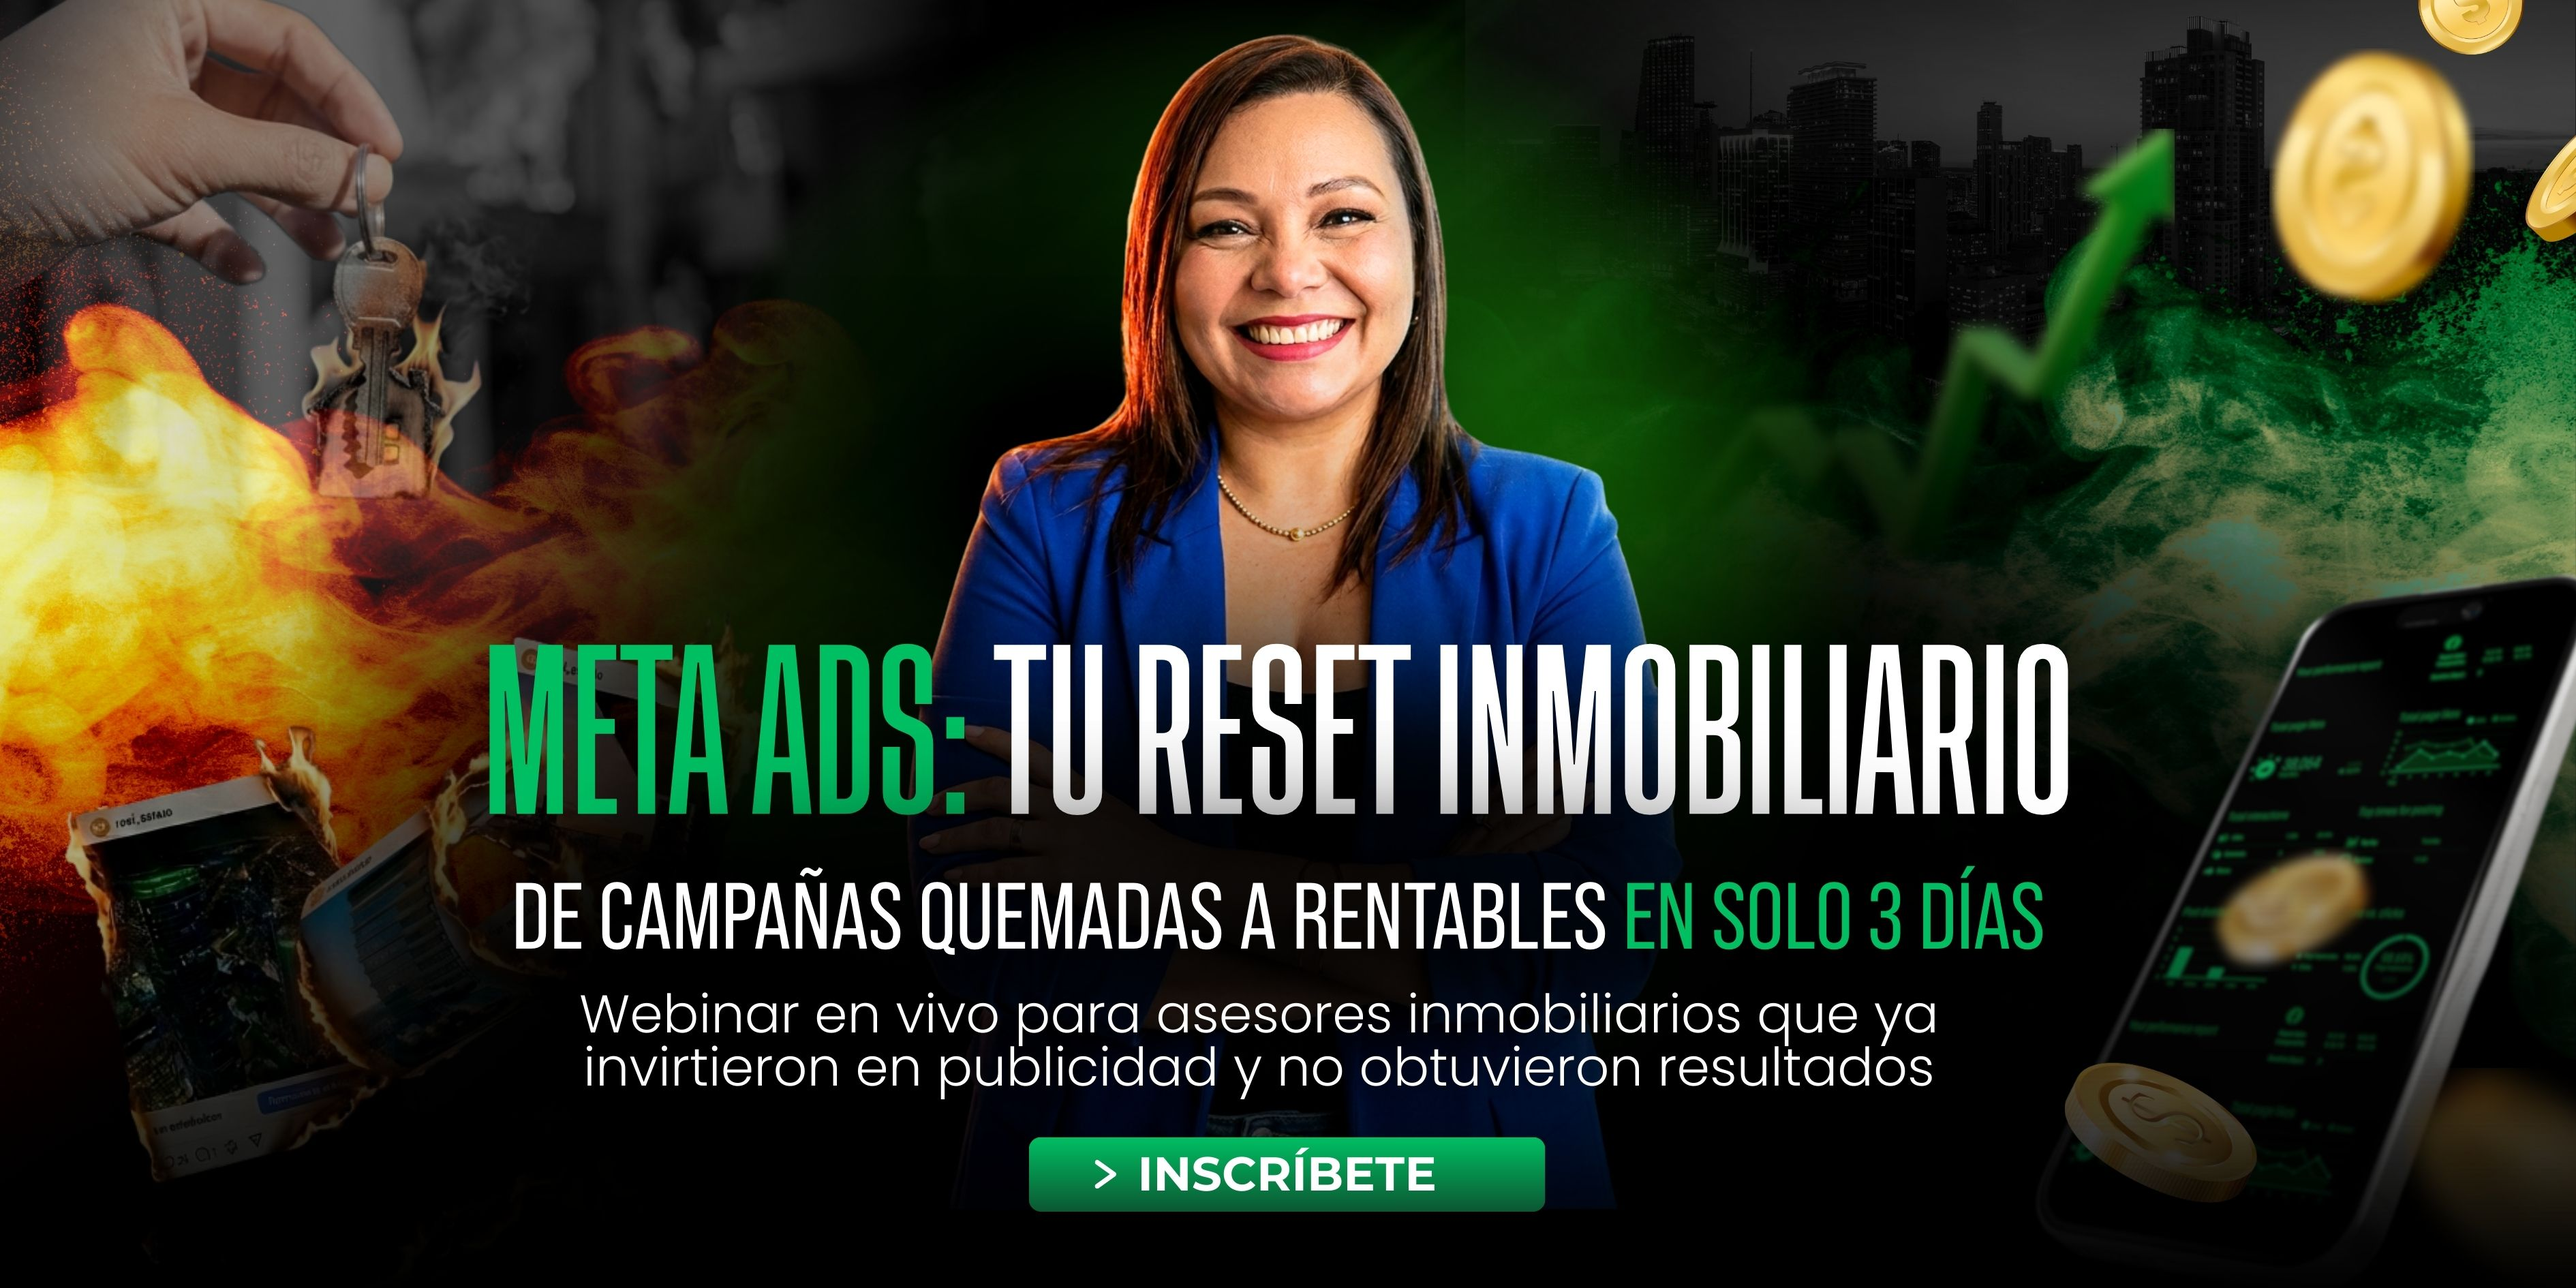
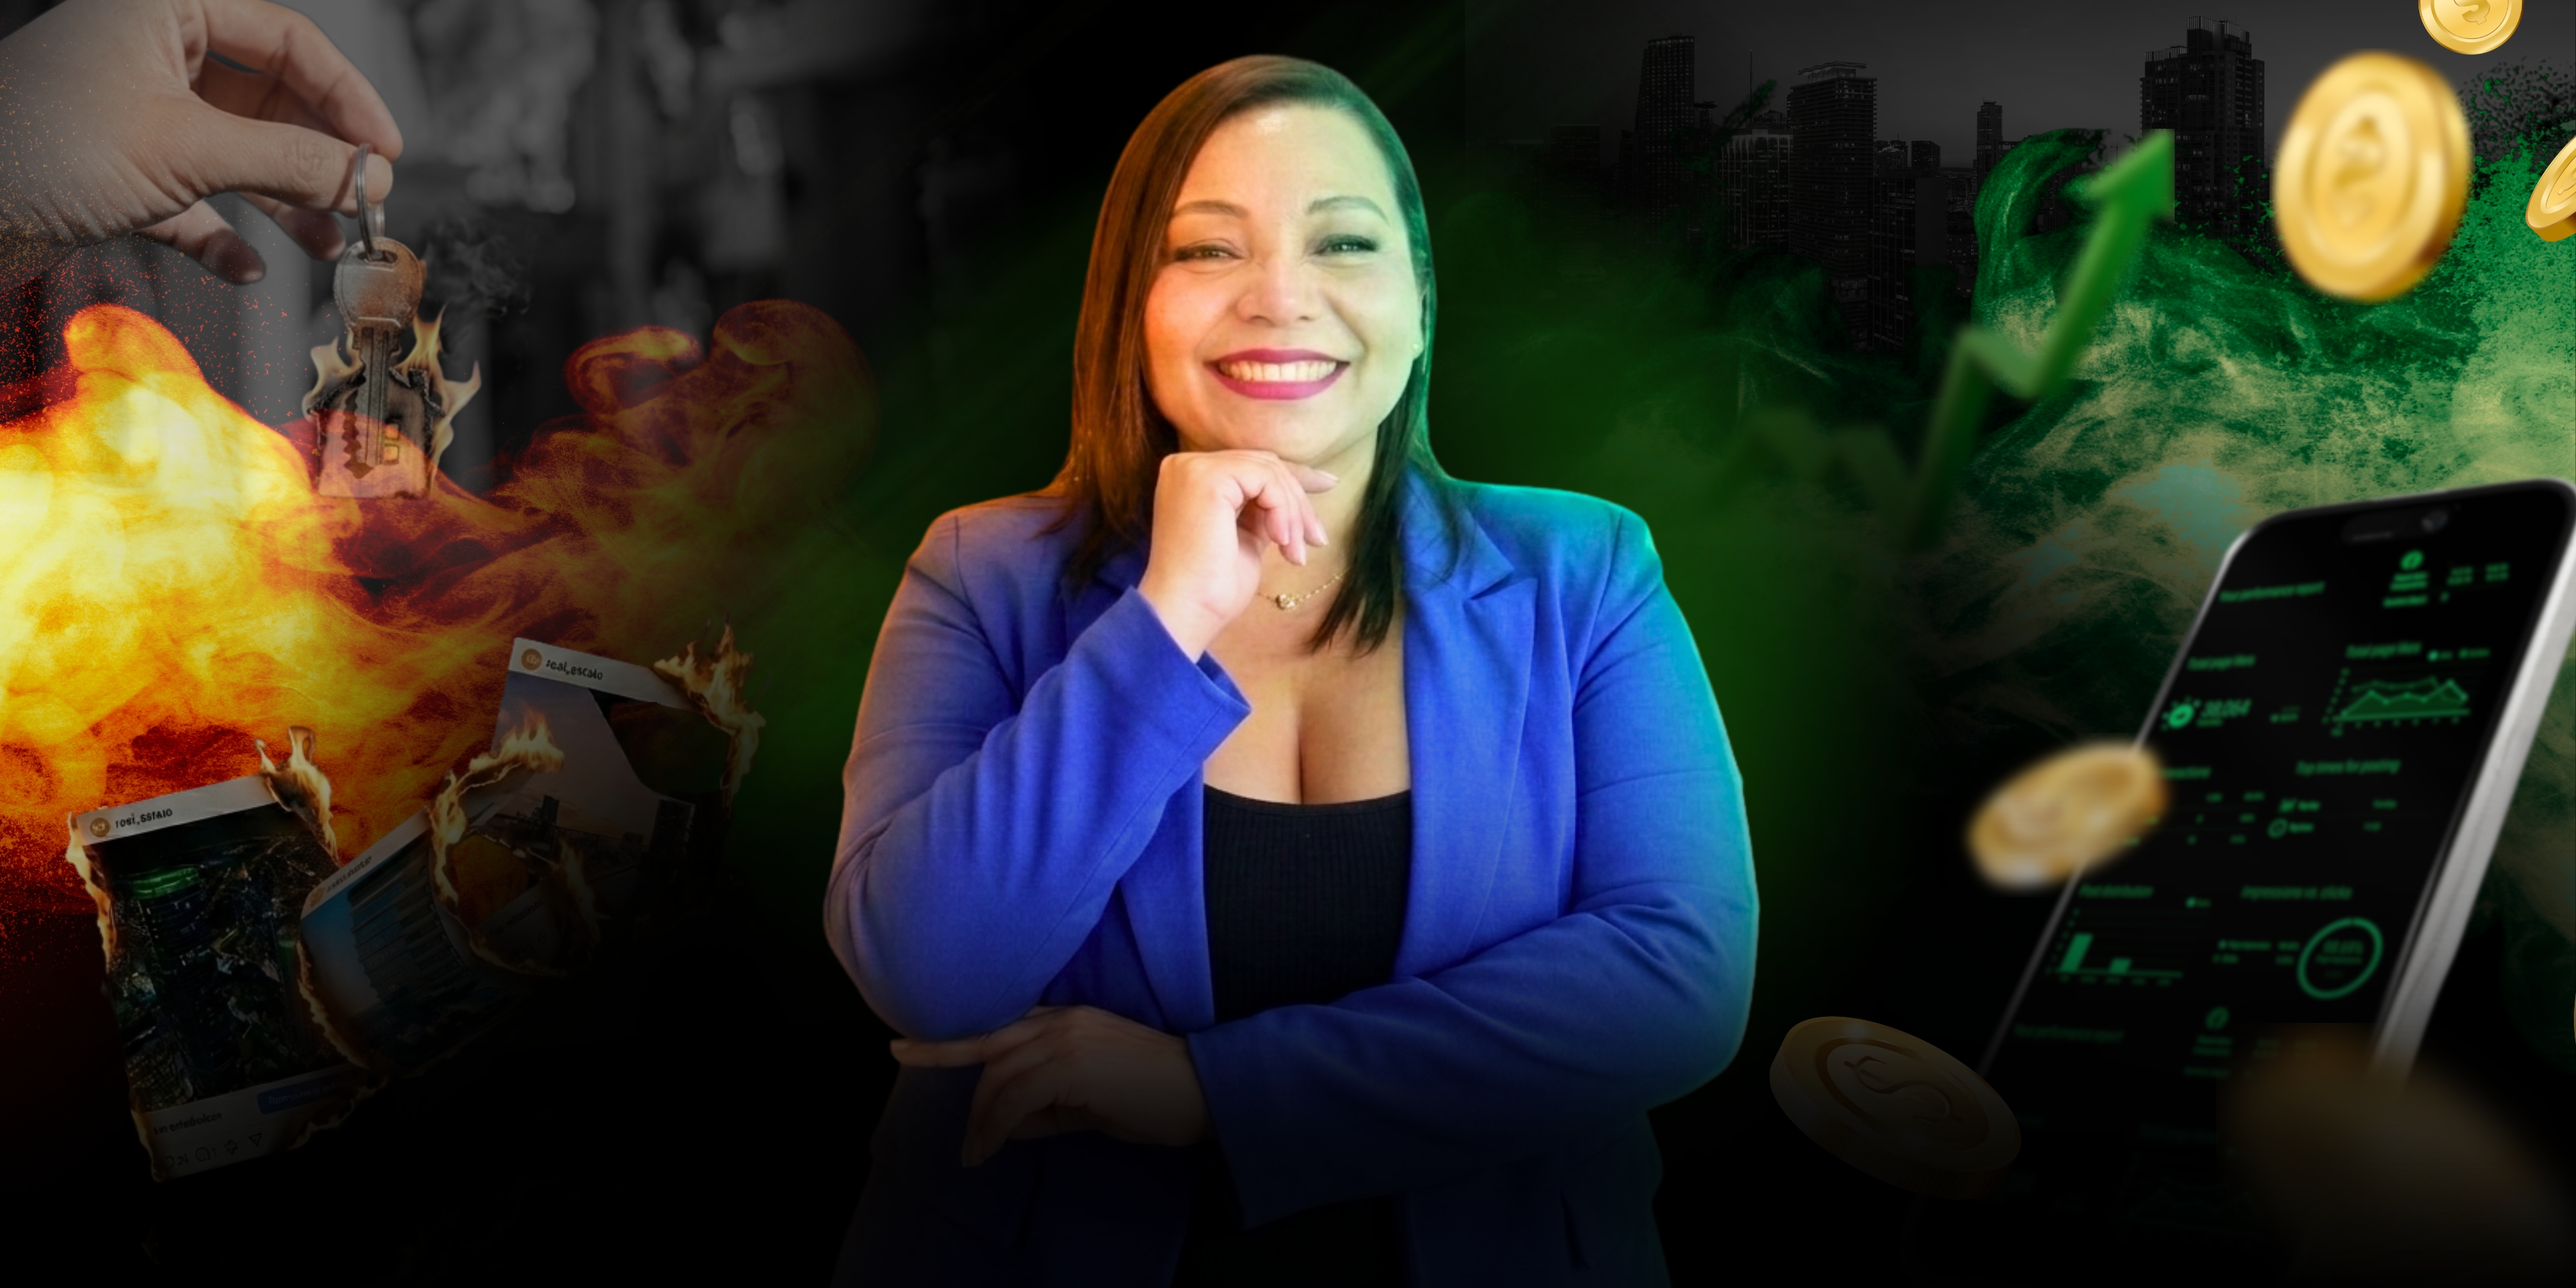
solo faltan las rutas

diff --git a/pages/webinar.html b/pages/webinar.html
@@ -305,7 +305,7 @@
                 <img src="/images/BANNER LANDING MM.jpg" alt="Mariángel Mujica">
             </div>
 
-            <p class="event-date">19 DE MARZO 2026 | 7:00 PM MIAMI</p>
+            <p class="event-date">19 DE MARZO 2026 | 6:00 PM MIAMI</p>
 
             <div class="timer-container" id="timer-wrapper">
                 <div class="timer-box"><span class="timer-num" id="days">00</span><span class="timer-label">Días</span></div>
@@ -324,7 +324,7 @@
             <ul class="pain-list">
                 <li>🔥 <span>Tu dinero se consume en días</span></li>
                 <li>🔥 <span>Llegan leads que no responden</span></li>
-                <li>🔥 <span>El CPL sube</span></li>
+                <li>🔥 <span>El Costo por lead (CPL) sube</span></li>
                 <li>🔥 <span>No se generan citas calificadas.</span></li>
             </ul>
         </section>
@@ -380,7 +380,7 @@
         const SCRIPT_URL = 'https://script.google.com/macros/s/AKfycbyfIt_zuBDfjSD7ggYXbe9WuAZL1_m5cCSOv1gdWVFysxNImZxxzu4Sl6wdmY8FSRw98w/exec';
 
         // CONFIGURACIÓN RELOJ 2026
-        const eventDate = new Date('2026-03-19T19:00:00-04:00').getTime(); 
+        const eventDate = new Date('2026-03-19T18:00:00-04:00').getTime(); 
 
         function updateTimer() {
             const now = new Date().getTime();

diff --git a/pages/gracias.html b/pages/gracias.html
@@ -157,7 +157,7 @@
 
         <span class="arrow">👇</span>
 
-        <a href="https://wa.me/TU_LINK_AQUI" class="btn-whatsapp">
+        <a href="https://chat.whatsapp.com/GjpLTBL68Cw1EDtdqxBQRz" class="btn-whatsapp">
             [ Acceder al canal privado ]
         </a>
     </div>
